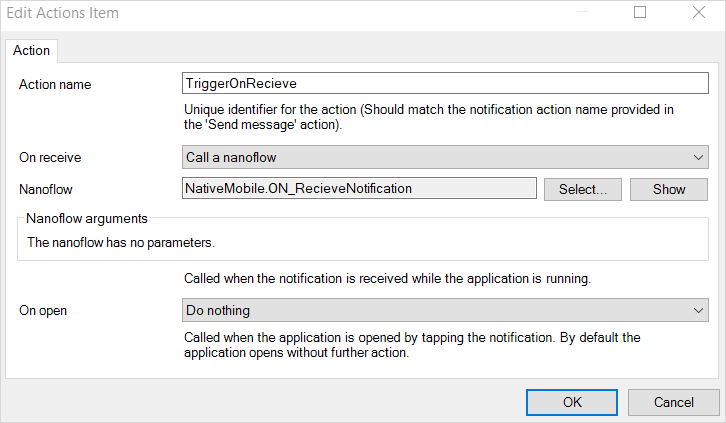
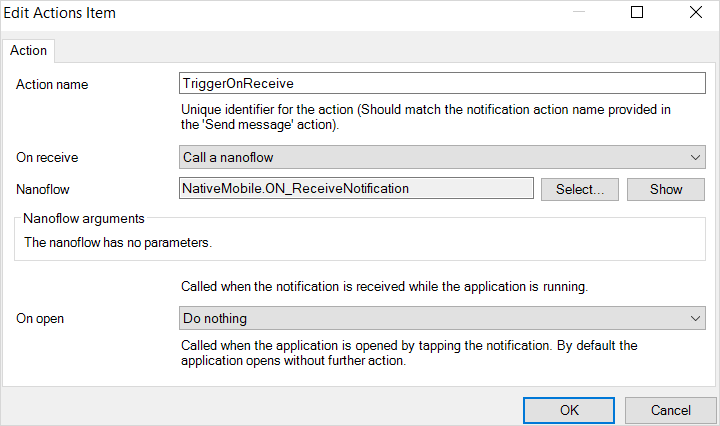
Solve feedback 487811

diff --git a/content/howto/mobile/local-notif-schedule-cancel.md b/content/howto/mobile/local-notif-schedule-cancel.md
@@ -39,22 +39,22 @@ To schedule a notification for a specific time, do the following:
 
 The notification should be displayed at the end of the minute.
 
-If your app is open, it will not show the notification due to iOS and Android user guidelines. However, notifications for open apps can still trigger onReceive events. This allows you to design custom actions for notifications, such as showing a page with pop-up layout. Follow these steps to model an onRecieve event:
+If your app is open, it will not show the notification due to iOS and Android user guidelines. However, notifications for open apps can still trigger onReceive events. This allows you to design custom actions for notifications, such as showing a page with pop-up layout. Follow these steps to model an onReceive event:
 
-1. Make a new nanoflow named *ON_RecieveNotification*.
+1. Make a new nanoflow named *ON_ReceiveNotification*.
 2. Drag and drop a **Log message** activity on your nanoflow.
 3. Double-click this activity. 
-4. In **Template** write *I triggered on recieve notification* then click **OK**.
+4. In **Template** write *I triggered on receive notification* then click **OK**.
 5. Double-click your home page's notifications widget.
 6. Click **Actions** > **New**.
-7.  Create a **New Action** named *TriggerOnRecieve*, set **On receive** to **Call a nanoflow**, and select **ON_RecieveNotification**:
+7.  Create a **New Action** named *TriggerOnReceive*, set **On receive** to **Call a nanoflow**, and select **ON_ReceiveNotification**:
 
-	{{% image_container width="500" %}}![on recieve settings](attachments/native-push/on-receive-action.png){{% /image_container %}}
+	{{% image_container width="500" %}}![on receive settings](attachments/native-push/on-receive-action.png){{% /image_container %}}
 
 8. Click **OK** then **OK** again.
 8. In **ACT_CreateAndSendNotification**, double-click your schedule notification activity.
 10. Click **Action name** > **Edit**.
-11. Type *'TriggerOnRecieve'* into the argument field and click **OK**.
+11. Type *'TriggerOnReceive'* into the argument field and click **OK**.
 11. Click **OK**.
 12. Start and load the app on your mobile device.
 13. Tap the **Send notification** button, and *do not* minimize your app.
